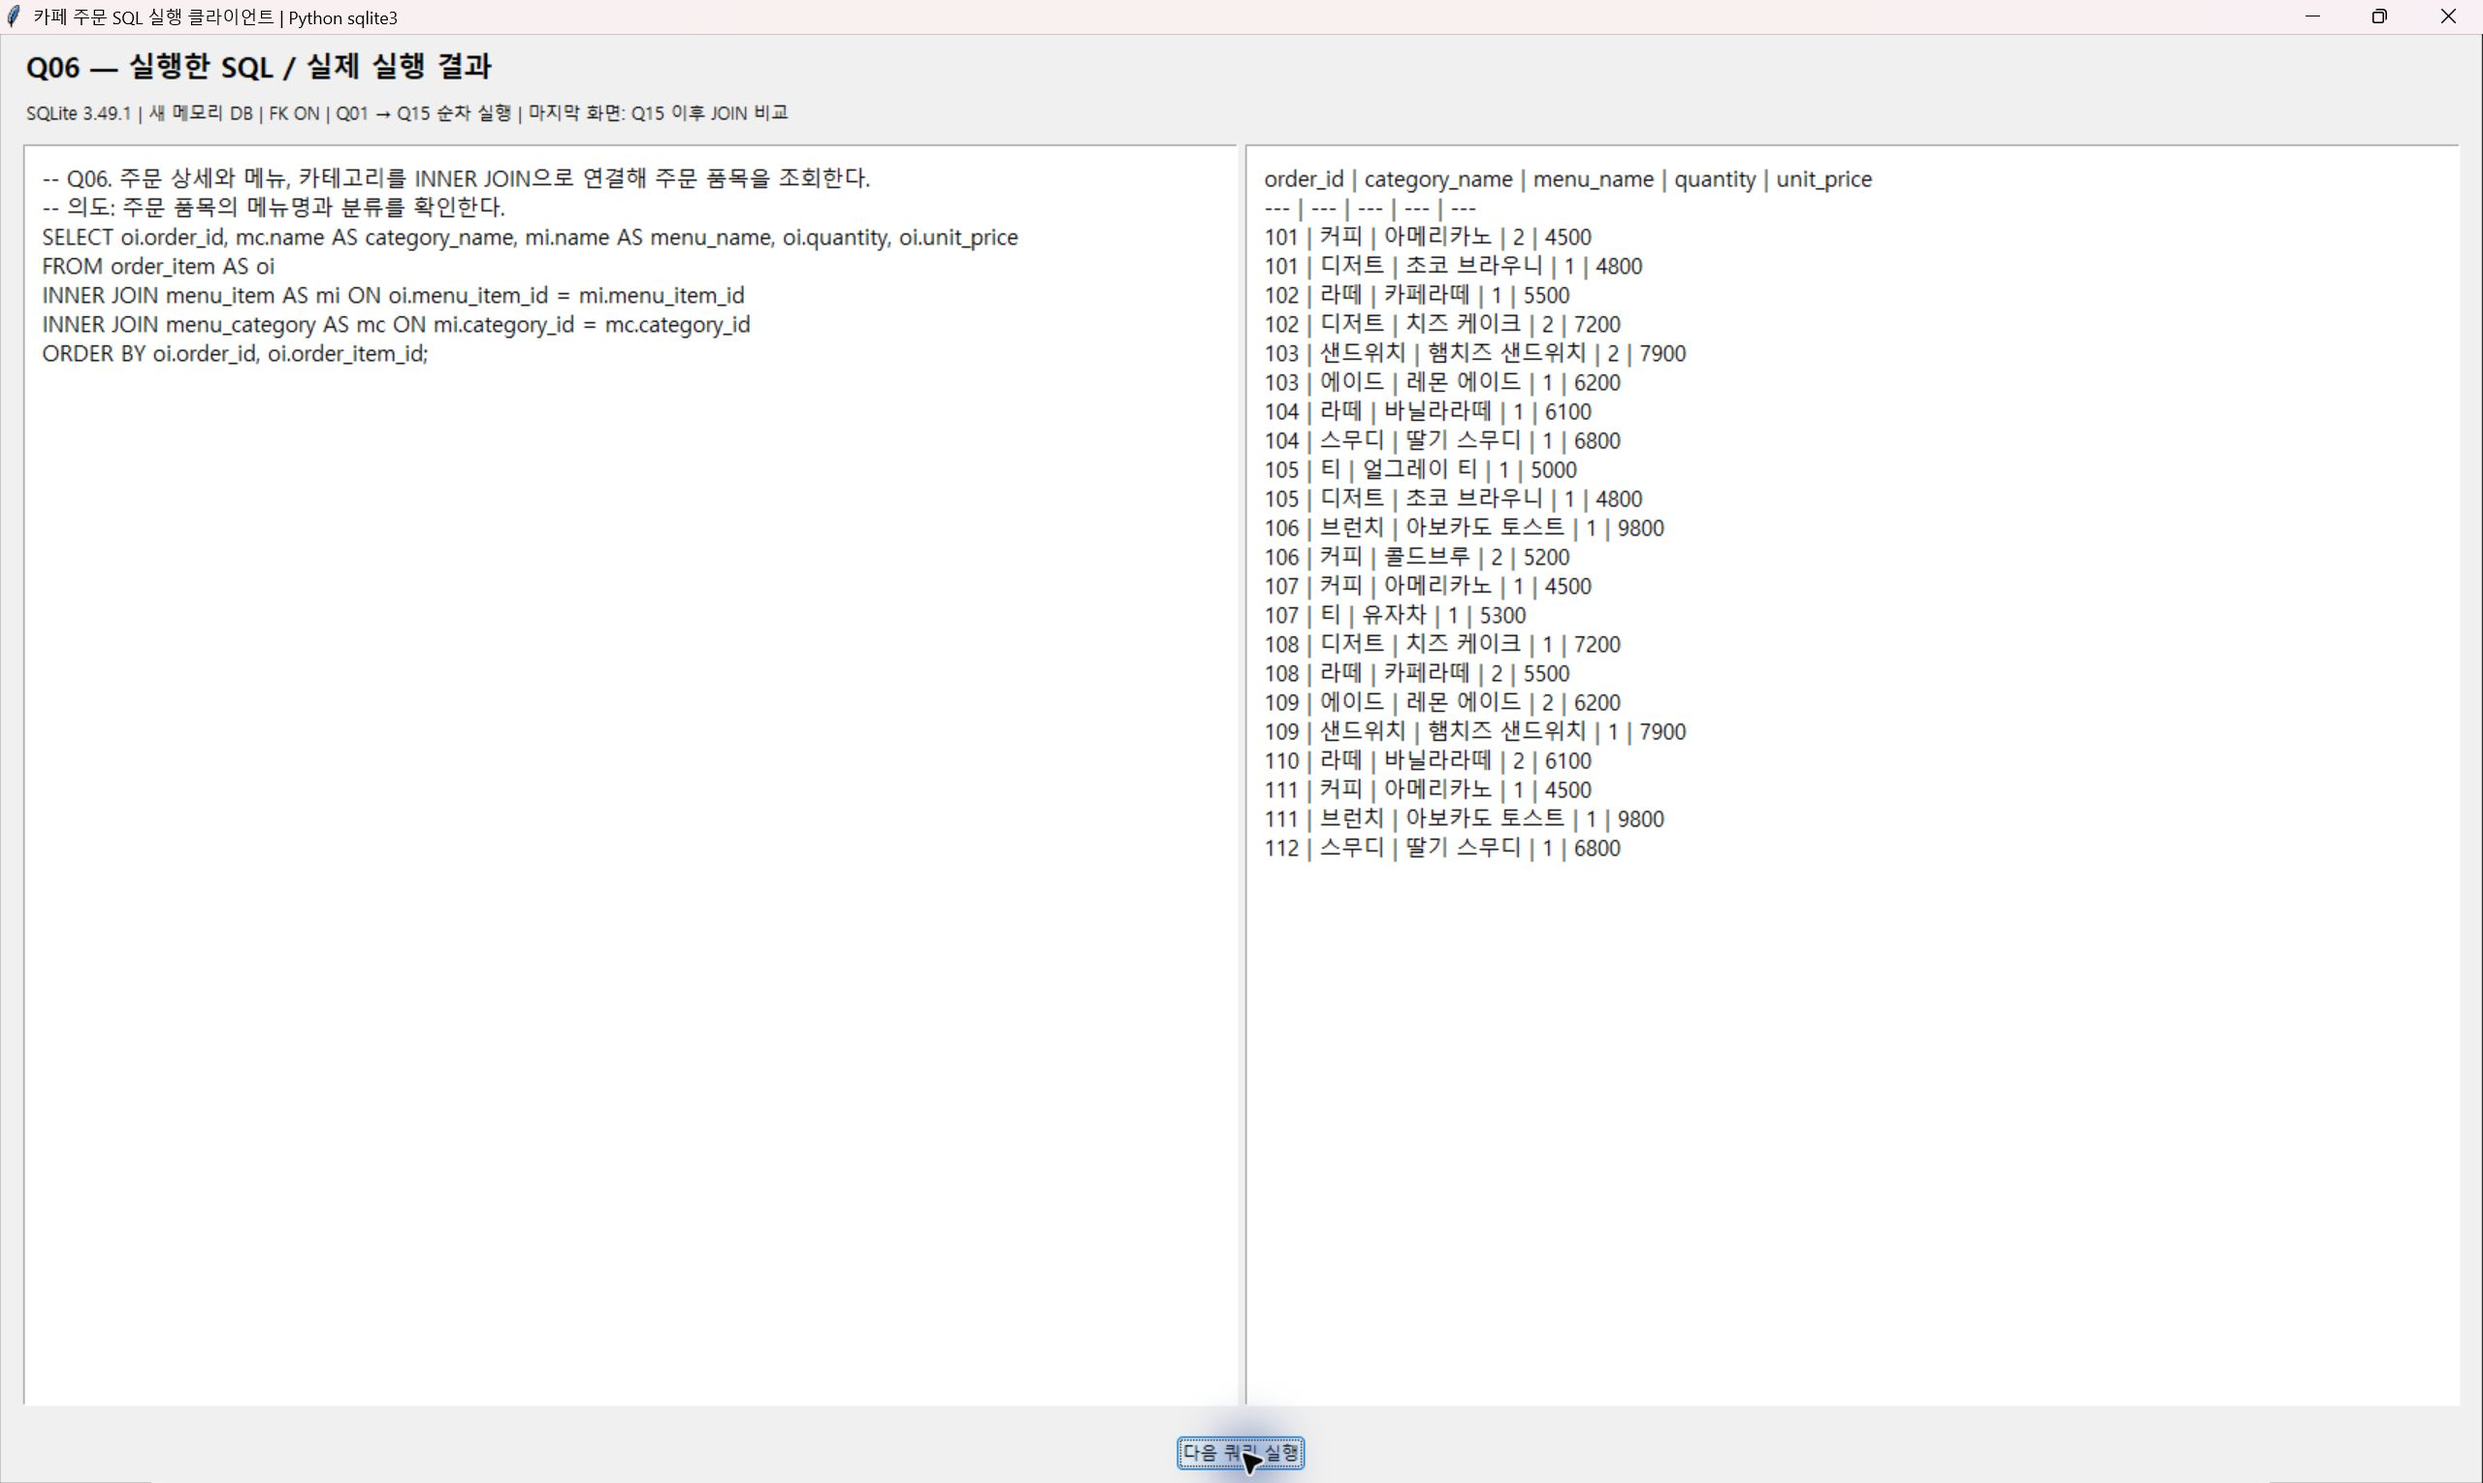
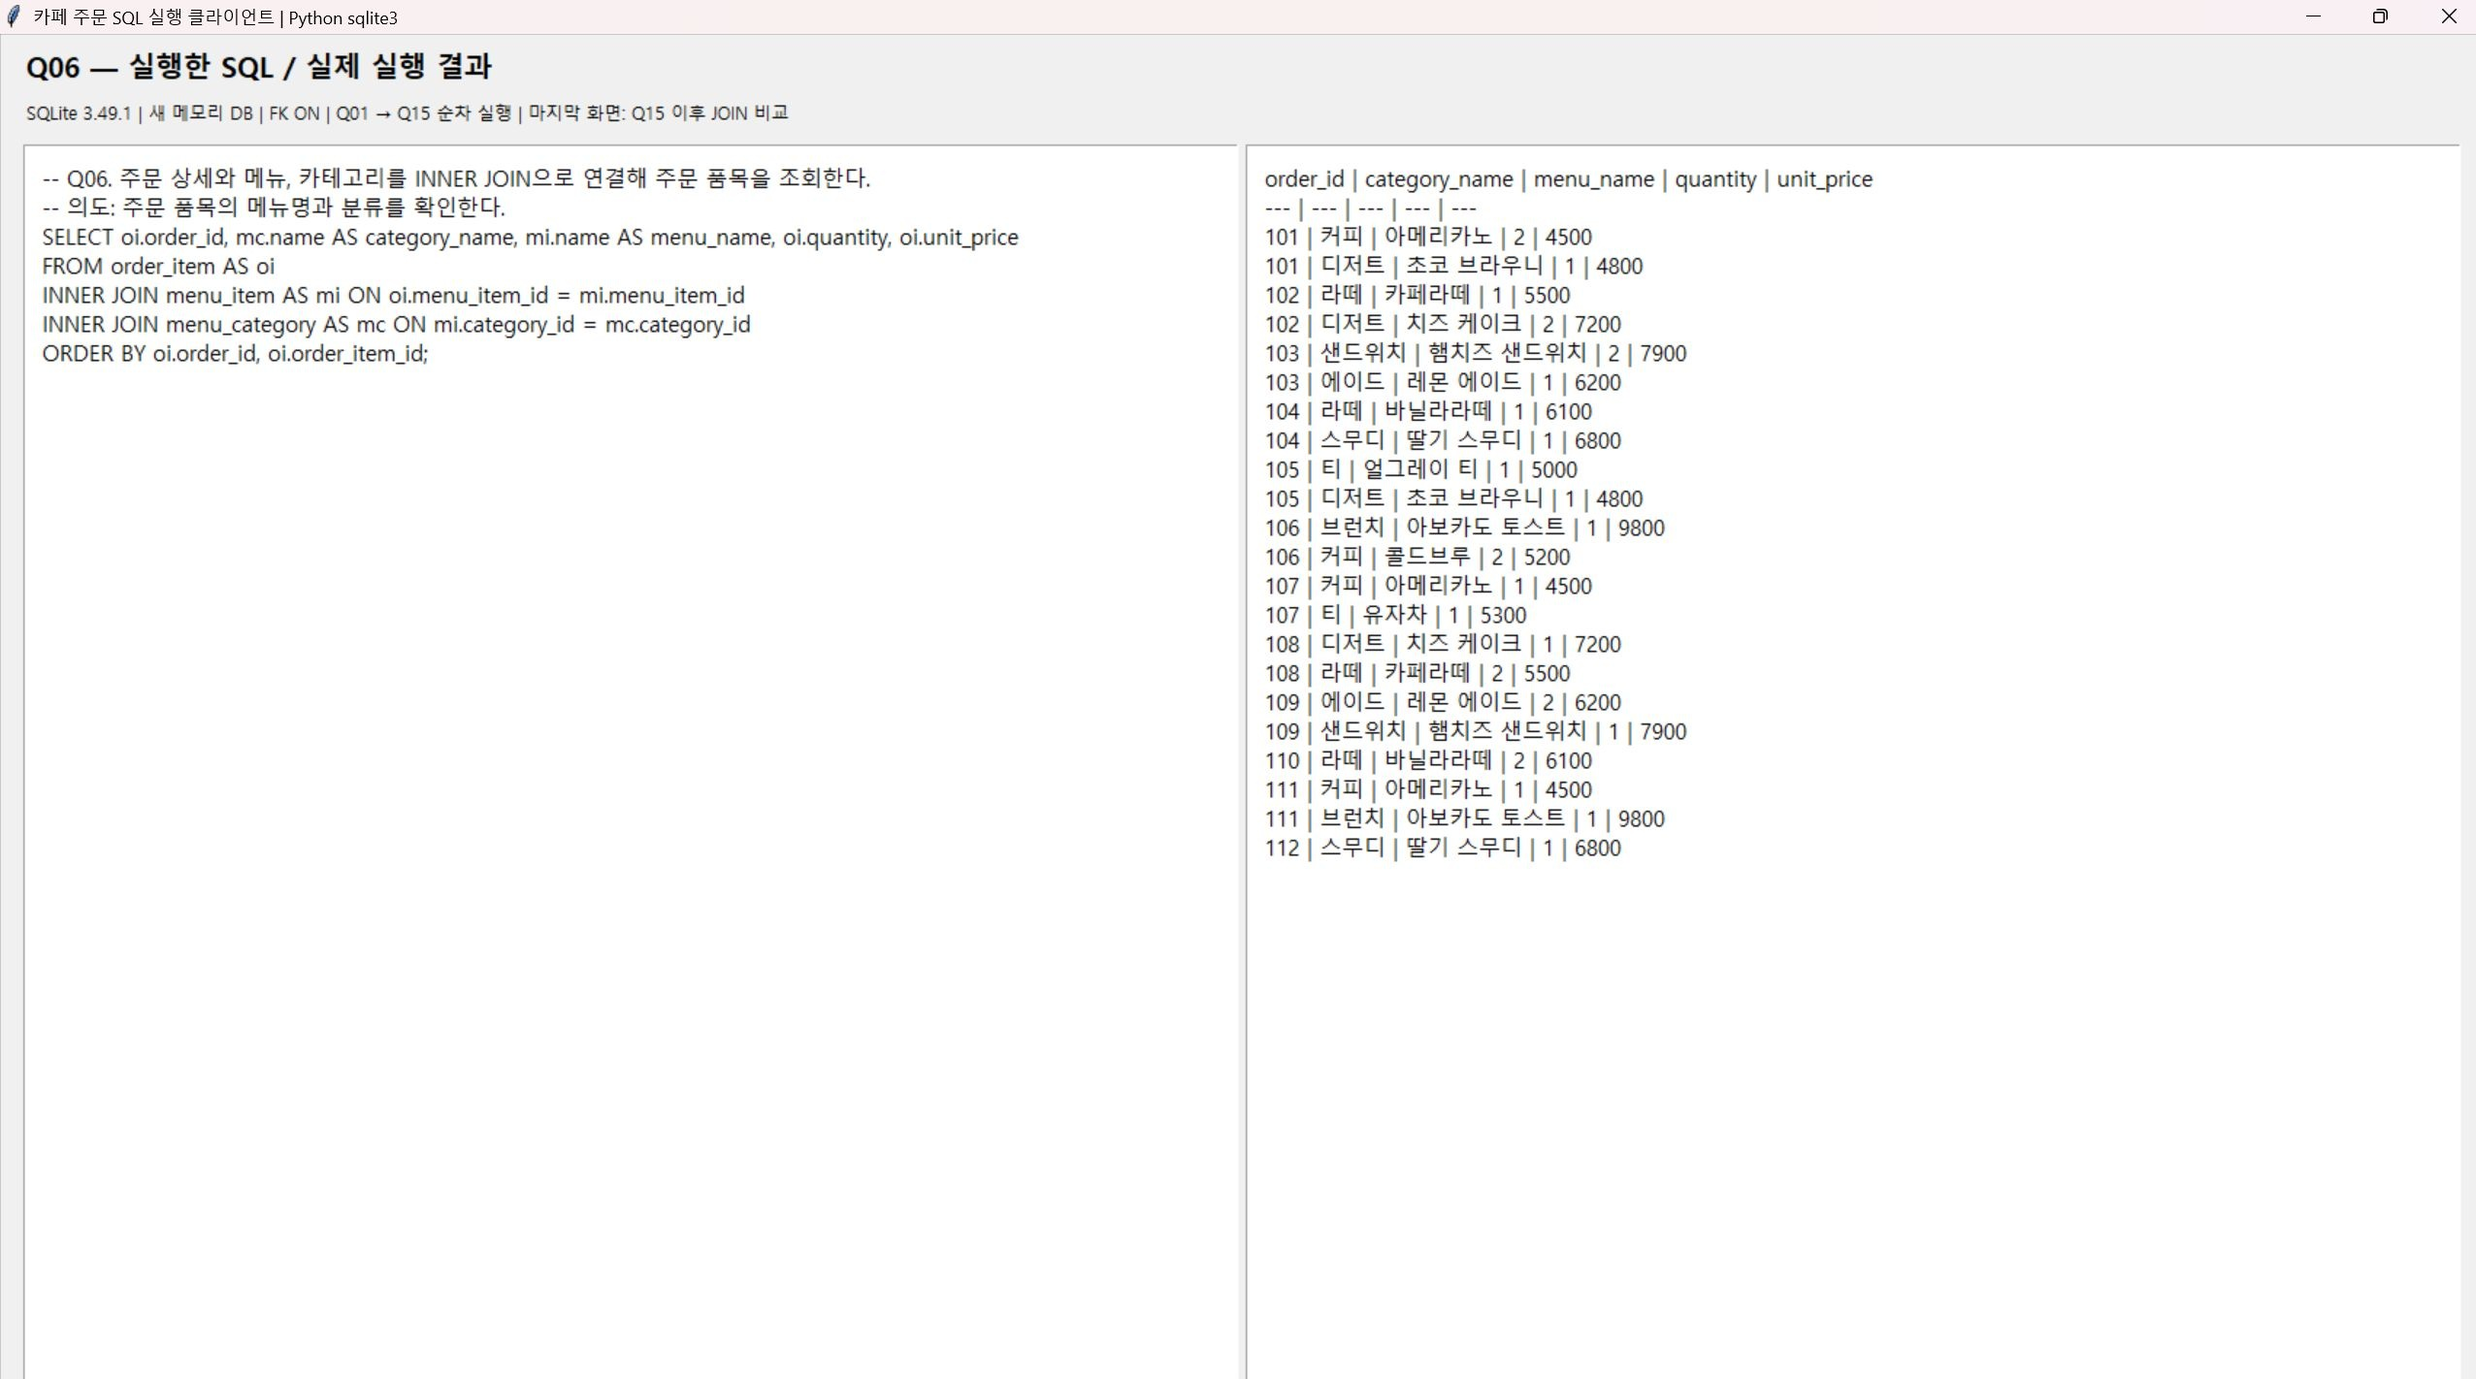
chore: ignore local artifacts and clean submission files
작업 의도:
- 로컬 개발 환경과 내부 작업 문서의 제출 제외
- 사용자 정리 사항의 원격 브랜치 반영

작업 세부 사항:
- 가상환경과 Python 캐시 및 IDE 설정 ignore 규칙 추가
- 내부 문답 및 계획 문서 삭제와 관련 링크 정리
- 사용자 수정 스크린샷 16개 반영 및 안내 문구 정정
- 기존 산출물 검증과 ignore 범위 및 문서 링크 검증

diff --git a/evidence/screenshots/README.md b/evidence/screenshots/README.md
@@ -1,8 +1,8 @@
 # SQL 실제 실행 화면
 
-2026-09-20 Windows / Python 3.12.10 / SQLite 3.49.1에서 `python scripts/query_viewer.py`로 실행한 자체 SQLite 클라이언트의 원본 화면 캡처다. Python sqlite3가 SQL을 실행하고 tkinter가 SQL과 결과를 표시한다. 사전 작성된 결과 텍스트를 이미지로 변환한 자료가 아니다.
+2026-09-20 Windows / Python 3.12.10 / SQLite 3.49.1에서 `python scripts/query_viewer.py`로 실행한 자체 SQLite 클라이언트의 화면 캡처를 바탕으로 정리한 자료다. Python sqlite3가 SQL을 실행하고 tkinter가 SQL과 결과를 표시한다. 사전 작성된 결과 텍스트를 이미지로 변환한 자료가 아니다.
 
-새 메모리 DB에 schema.sql과 seed.sql을 적재하고 FK를 활성화한 후 Q01→Q15를 순서대로 실행했다. Q01~Q13은 초기 시드, Q14는 주문 110 수정 후, Q15는 주문 112와 상세 삭제 후 결과다. 캡처는 해당 창만 저장했으며 이미지 합성이나 내용 편집을 하지 않았다.
+새 메모리 DB에 schema.sql과 seed.sql을 적재하고 FK를 활성화한 후 Q01→Q15를 순서대로 실행했다. Q01~Q13은 초기 시드, Q14는 주문 110 수정 후, Q15는 주문 112와 상세 삭제 후 결과다.
 
 [SQL 원본](../../sql/queries.sql) · [전체 텍스트 결과](../query_results.txt) · [실행 클라이언트 소스](../../scripts/query_viewer.py)
 

diff --git a/README.md b/README.md
@@ -1,6 +1,6 @@
 # SQL로 만드는 카페 주문 데이터베이스
 
-평가 항목별 근거는 [사전평가 보완 문답과 근거 색인](docs/assessment-review.md), 실제 실행 화면은 [쿼리별 캡처](evidence/screenshots/README.md)에서 확인할 수 있다.
+실제 실행 화면은 [쿼리별 캡처](evidence/screenshots/README.md)에서 확인할 수 있다.
 
 ## 주제와 실행 환경
 
@@ -40,7 +40,6 @@ DB 파일: evidence/cafe_orders.db
 | `scripts/run.py` | 전체 파이프라인 실행과 evidence 생성 |
 | `scripts/query_viewer.py` | 실제 SQL을 순차 실행하는 데스크톱 캡처 클라이언트 |
 | `evidence/screenshots/README.md` | Q01~Q15 및 JOIN 비교 실행 화면과 재현 조건 |
-| `docs/assessment-review.md` | 서브에이전트 문답과 평가 15개 항목의 근거 색인 |
 | `scripts/verify.py` | 테이블 행 수, FK 동작, 쿼리 범주, evidence 존재 여부 검증 |
 | `evidence/sample_row_counts.txt` | 각 테이블에 10행 이상 샘플 데이터가 들어갔는지 확인한 결과 |
 | `evidence/query_results.txt` | 쿼리 15개의 실행 결과 텍스트 |
